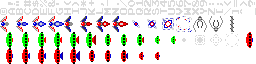
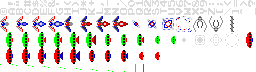
Animated background!

diff --git a/src/background.c b/src/background.c
@@ -1,0 +1,147 @@
+#include "background.h"
+
+const char mapBGWest0[] PROGMEM ={
+8,1
+,BACKGROUND_STAR_TILE_START,0,0,0,BACKGROUND_STAR_TILE_START + 8,0,0,0};
+
+const char mapBGWest1[] PROGMEM ={
+8,1
+,BACKGROUND_STAR_TILE_START + 1,0,0,0,BACKGROUND_STAR_TILE_START + 9,0,0,0};
+
+const char mapBGWest2[] PROGMEM ={
+8,1
+,0,BACKGROUND_STAR_TILE_START + 2,0,0,0,BACKGROUND_STAR_TILE_START + 10,0,0};
+
+const char mapBGWest3[] PROGMEM ={
+8,1
+,0,BACKGROUND_STAR_TILE_START + 3,0,0,0,BACKGROUND_STAR_TILE_START + 11,0,0};
+
+const char mapBGWest4[] PROGMEM ={
+8,1
+,0,0,BACKGROUND_STAR_TILE_START + 4,0,0,0,BACKGROUND_STAR_TILE_START + 12,0};
+
+const char mapBGWest5[] PROGMEM ={
+8,1
+,0,0,BACKGROUND_STAR_TILE_START + 5,0,0,0,BACKGROUND_STAR_TILE_START + 13,0};
+
+const char mapBGWest6[] PROGMEM ={
+8,1
+,0,0,0,BACKGROUND_STAR_TILE_START + 6,0,0,0,BACKGROUND_STAR_TILE_START + 14};
+
+const char mapBGWest7[] PROGMEM ={
+8,1
+,0,0,0,BACKGROUND_STAR_TILE_START + 7,0,0,0,BACKGROUND_STAR_TILE_START + 15};
+
+const char mapBGEast0[] PROGMEM ={
+8,1
+,BACKGROUND_STAR_TILE_START + 14,0,0,0,BACKGROUND_STAR_TILE_START + 6,0,0,0};
+
+const char mapBGEast1[] PROGMEM ={
+8,1
+,BACKGROUND_STAR_TILE_START + 15,0,0,0,BACKGROUND_STAR_TILE_START + 7,0,0,0};
+
+const char mapBGEast2[] PROGMEM ={
+8,1
+,0,BACKGROUND_STAR_TILE_START + 12,0,0,0,BACKGROUND_STAR_TILE_START + 4,0,0};
+
+const char mapBGEast3[] PROGMEM ={
+8,1
+,0,BACKGROUND_STAR_TILE_START + 13,0,0,0,BACKGROUND_STAR_TILE_START + 5,0,0};
+
+const char mapBGEast4[] PROGMEM ={
+8,1
+,0,0,BACKGROUND_STAR_TILE_START + 10,0,0,0,BACKGROUND_STAR_TILE_START + 2,0};
+
+const char mapBGEast5[] PROGMEM ={
+8,1
+,0,0,BACKGROUND_STAR_TILE_START + 11,0,0,0,BACKGROUND_STAR_TILE_START + 3,0};
+
+const char mapBGEast6[] PROGMEM ={
+8,1
+,0,0,0,BACKGROUND_STAR_TILE_START + 8,0,0,0,BACKGROUND_STAR_TILE_START};
+
+const char mapBGEast7[] PROGMEM ={
+8,1
+,0,0,0,BACKGROUND_STAR_TILE_START + 9,0,0,0,BACKGROUND_STAR_TILE_START + 1};
+
+const char *mapBGWest[] = {
+    mapBGWest0, mapBGWest1,
+    mapBGWest2, mapBGWest3,
+    mapBGWest4, mapBGWest5,
+    mapBGWest6, mapBGWest7
+};
+
+const char *mapBGEast[] = {
+    mapBGEast0, mapBGEast1,
+    mapBGEast2, mapBGEast3,
+    mapBGEast4, mapBGEast5,
+    mapBGEast6, mapBGEast7
+};
+
+u8 bgTime = 0;
+u8 bgStarPos[BACKGROUND_STAR_POS_COUNT];
+
+void BackgroundInit() {
+    u8 i = BACKGROUND_STAR_POS_COUNT;
+    while(i--) {
+        bgStarPos[i] = rand() % 8;
+    }
+}
+
+void BackgroundUpdate() {
+    u8 tileY, tileX, i, j;
+
+    switch(bgTime) {
+        case 0:
+            Fill(11, 0, 1, 28, BACKGROUND_LINE_TILE_START);
+            break;
+        case 8:
+        case 24:
+            Fill(11, 0, 1, 28, BACKGROUND_LINE_TILE_START + 1);
+            break;
+        case 16:
+            Fill(11, 0, 1, 28, 0);
+    }
+
+    // Star updates
+    if(1) {
+        i = BACKGROUND_STAR_POS_COUNT;
+        while(i--) {
+            bgStarPos[i]++;
+            if(bgStarPos[i] >= 8) {
+                bgStarPos[i] = 0;
+            }
+        }
+
+        i = 0;
+        tileY = 4;
+        tileX = 12;
+        while(i < 2) {
+            j = 0;
+            while(j < 2) {
+                DrawMap(tileX + (j << 3), (tileY - j), mapBGEast[bgStarPos[i]]);
+                j++;
+            }
+            tileY += 7;
+            i++;
+        }
+
+        i = 0;
+        tileY = 16;
+        tileX = 12;
+        while(i < 2) {
+            j = 0;
+            while(j < 2) {
+                DrawMap(tileX + (j << 3), (tileY + j), mapBGWest[bgStarPos[i]]);
+                j++;
+            }
+            tileY += 7;
+            i++;
+        }
+    }
+
+    bgTime++;
+    if(bgTime >= 32) {
+        bgTime = 0;
+    }
+}

diff --git a/src/main.c b/src/main.c
@@ -1,16 +1,21 @@
 #include "defines.h"
 #include "gfx.h"
+#include "background.h"
 #include "player.h"
 
 int main() {
+    srand(GetTrueRandomSeed());
+
     SetTileTable(gfxTiles);
     ClearVram();
 
+    BackgroundInit();
     PlayerInit(&players[0], 0);
 
     while(1) {
         WaitVsync(1);
 
+        BackgroundUpdate();
         PlayerUpdate(&players[0]);
     }
 

diff --git a/src/background.h b/src/background.h
@@ -1,0 +1,16 @@
+#ifndef HYPERGUNNERS_CLASSIC_BACKGROUND_H
+#define HYPERGUNNERS_CLASSIC_BACKGROUND_H
+
+#include "defines.h"
+#include "gfx.h"
+
+#define BACKGROUND_STAR_TILE_START 176
+#define BACKGROUND_LINE_TILE_START 192
+#define BACKGROUND_STAR_POS_COUNT 6
+
+extern u8 backgroundTime;
+
+void BackgroundInit();
+void BackgroundUpdate();
+
+#endif
